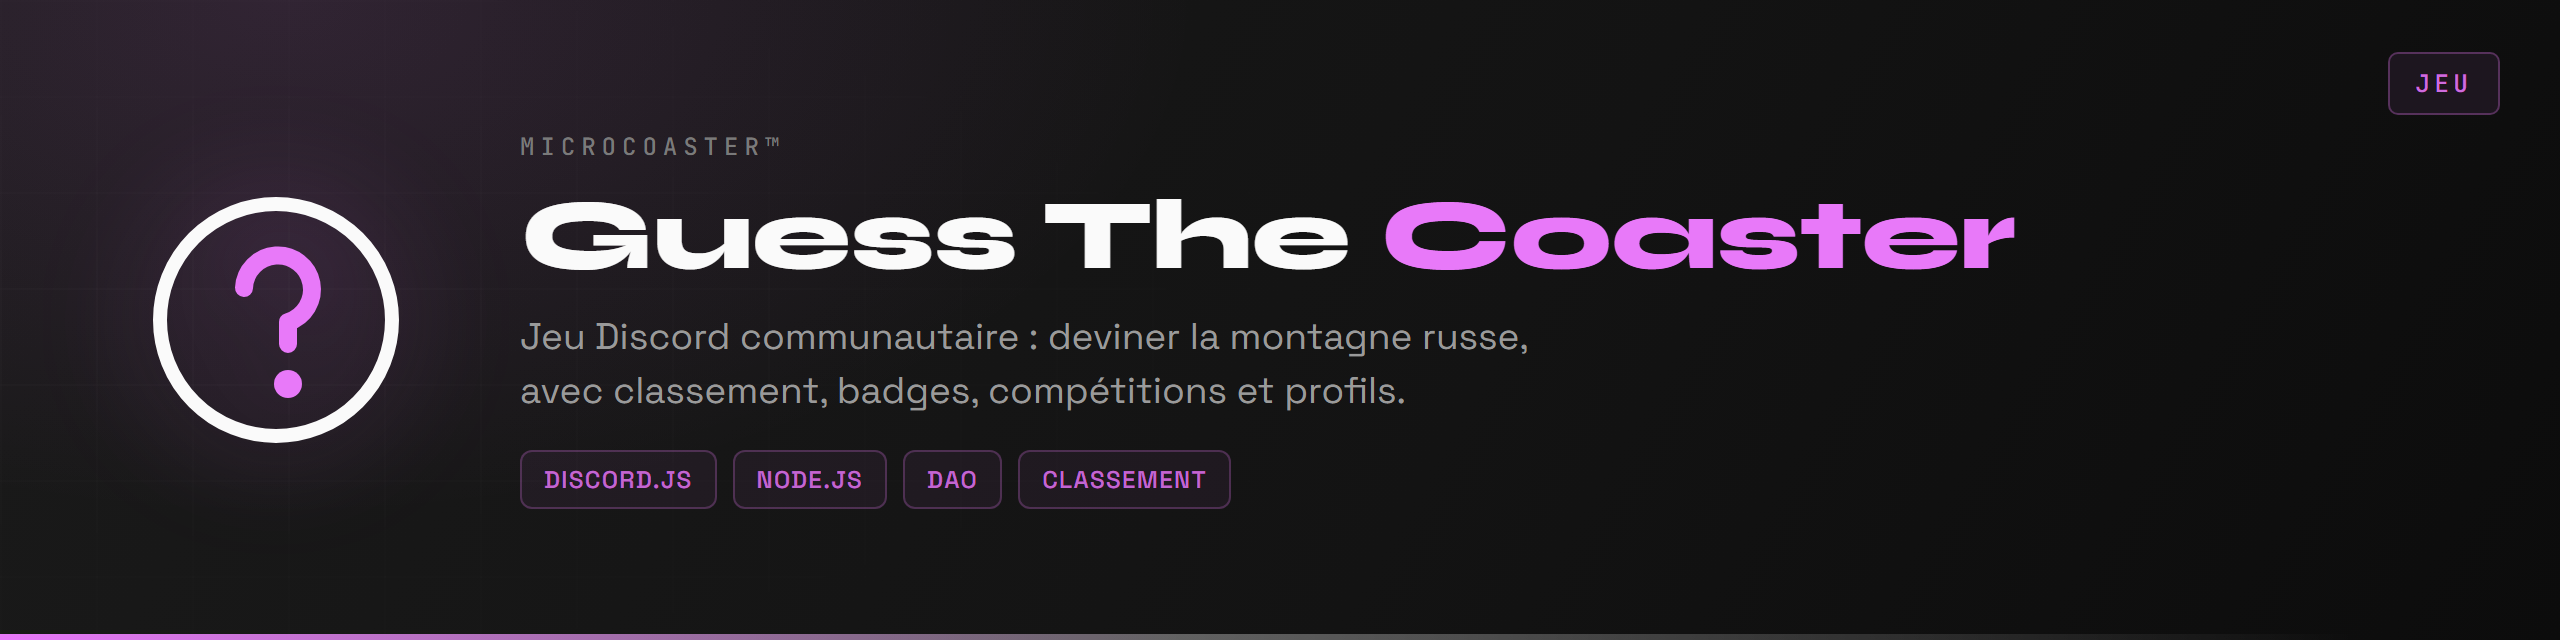
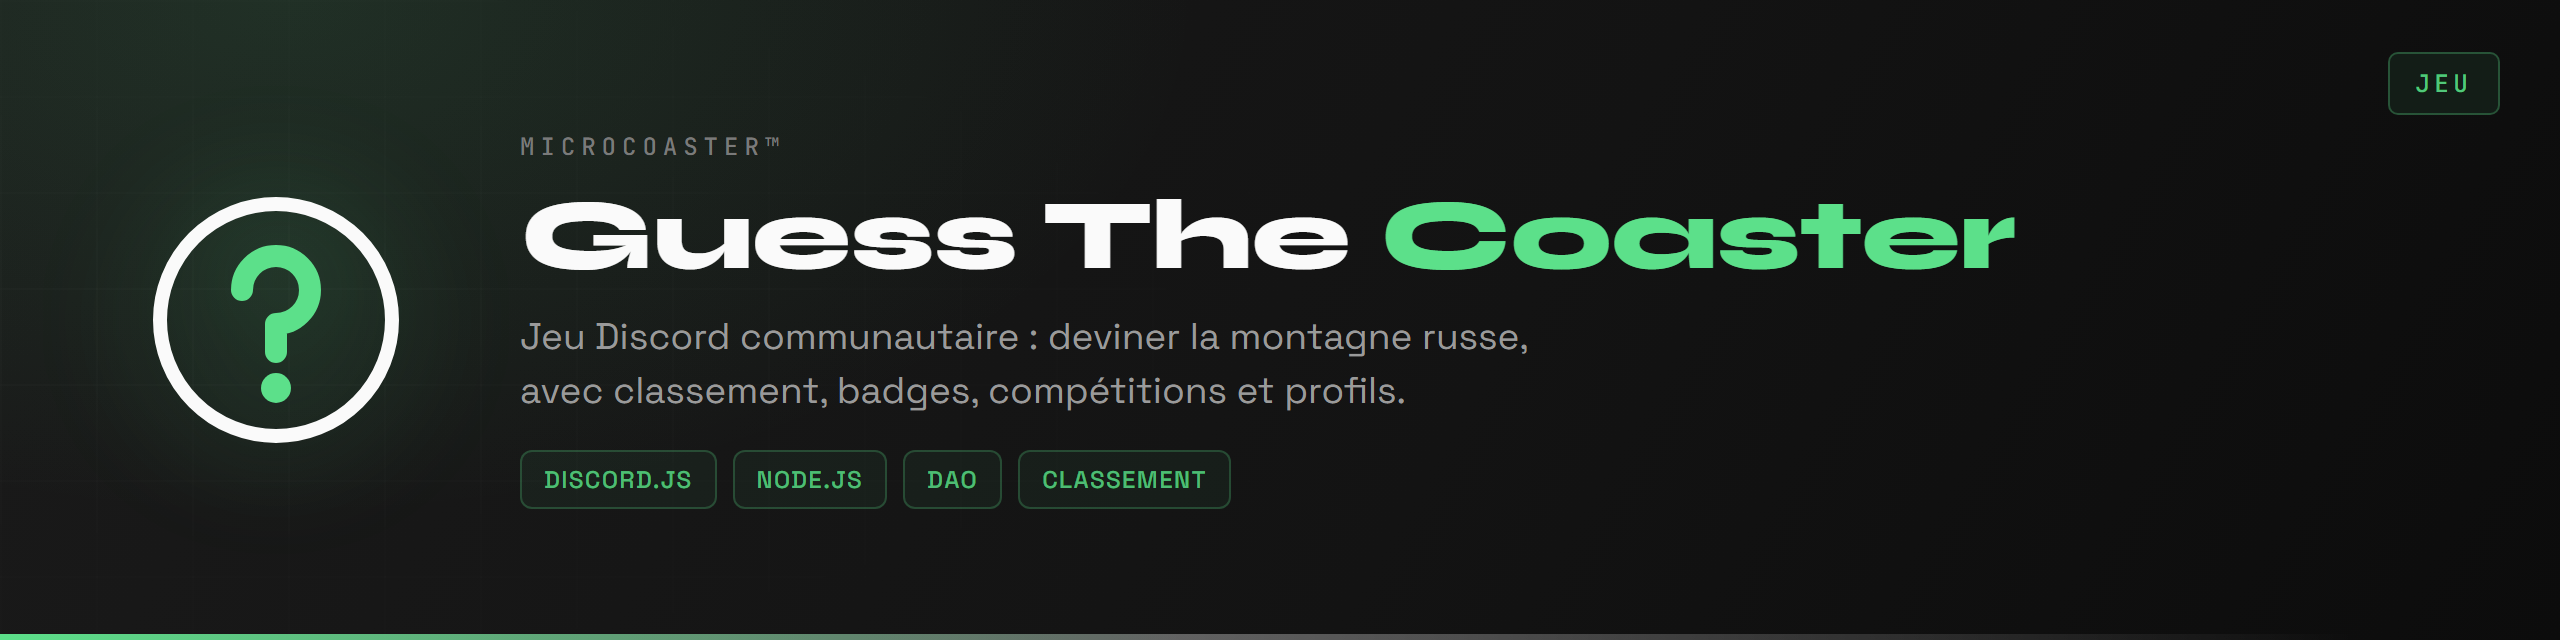
Réécrit le README sans emoji
Reprend la structure commune aux modules de l'organisation : principe,
sécurité, matériel, réglages, compilation, mise en service, état.

Le contenu technique est conservé, vérifié contre le code source plutôt
que recopié de la version précédente.

diff --git a/README.md b/README.md
@@ -4,121 +4,89 @@
 
 </div>
 
+Jeu Discord pour passionnés de parcs. Le bot poste la photo d'une montagne russe, les joueurs devinent son nom. Bonne réponse, des crédits et une série qui grandit. Mauvaise réponse, la série repart de zéro.
 
-**GuessTheCoaster** is a community-driven Discord bot where users guess the names of roller coasters based on images. Collect coasters, earn credits, build your streak, and climb the leaderboard. If you love theme parks and quizzes, you're in the right place!
+Les coasters devinés s'accumulent dans une collection personnelle, et le classement départage ceux qui les reconnaissent le plus vite.
 
-<p align="center">
-  <img src="https://media.discordapp.net/attachments/1367776168673280090/1367776189124710421/Toutatis-3-min-1024x682.png?ex=68f740d7&is=68f5ef57&hm=4a1f23fa7e1e25691168a088d8cc7dba5c145b3fea65815eba7f646d057799d9&=&format=webp&quality=lossless" width="600" alt="Banner"/>
-</p>
+## Comment ça se joue
 
-## 🚀 Features
+```
+Le bot poste une photo
+Les joueurs répondent avec /guess
+Bonne réponse    crédits gagnés, série prolongée, coaster ajouté à la collection
+Mauvaise         série remise à zéro
+```
 
-- 🖼 Image-based coaster guessing
-- 🧠 Streak and best streak tracking
-- 🪙 Credit system with difficulties: Easy / Medium / Hard
-- 🏆 User profiles with collectible stats and dynamic badges
-- 📈 Global and local leaderboards (`/leaderboard`)
-- 🎖 Contributor system (submit coasters!)
-- 🛠 Admin commands for managing contributors and coasters
+La collection est ce qui donne envie de revenir. Un coaster déjà trouvé reste acquis, et le profil montre ce qui manque.
 
-## 📸 How It Works
+## Commandes
 
-1. Use `/guess` to start a round.
-2. The bot sends you an image of a coaster.
-3. Type the correct name (or accepted alias) in chat.
-4. Get rewarded with credits & streaks if correct. Missed it? Your streak resets!
-5. View your profile with `/profile`.
+**Jouer**
 
-## 🛡 Roles & Badges
+| Commande | Rôle |
+|:--|:--|
+| `/guess` | Proposer une réponse |
+| `/profile` | Collection, crédits et série d'un joueur |
+| `/badges` | Badges obtenus |
+| `/leaderboard` | Classement général |
 
-- Contributor  
-- 50% of coasters collected  
-- All coasters collected  
-- 10-win streak  
-- 50-win streak  
-- The mythical creator
+**Compétitions**
 
-> 🛠 *More badges coming soon... once the dev stops riding coasters and working on microcoaster launch systems!*
+| Commande | Rôle |
+|:--|:--|
+| `/competition` | Lancer une partie chronométrée |
+| `/endgame` | Clore la partie en cours |
 
-## 🔧 Commands
+**Administration**
 
-| Command            | Description                                                    |
-|--------------------|----------------------------------------------------------------|
-| `/guess`           | Start a guessing round with a random coaster                   |
-| `/profile`         | View your profile or another user's stats                      |
-| `/leaderboard`     | Show leaderboard by credits, streaks, or completion            |
-| `/addcoaster`      | Add a new coaster to the database (contributors only)          |
-| `/addcontributor`  | Grant or remove contributor rights (owner only)                |
-| `/badges`          | Display all obtainable badges and their meaning                |
-| `/commands`        | List all available commands in the bot                         |
-| `/about`           | Learn more about the GuessTheCoaster bot                       |
-| `/ping`            | Check the bot’s latency and responsiveness                     |
-| `/competition`    | Lance une devinette ouverte, le premier à trouver gagne +5 crédits & un rôle spécial |
-| `/endgame`        | Termine la session de jeu en cours (si applicable)                                   |
-| `/competition`    | Launch an open challenge; first correct answer earns +5 credits & a special role |
-| `/endgame`        | End the current guessing session (if applicable)                                 |
+| Commande | Rôle |
+|:--|:--|
+| `/addcoaster` | Ajouter un coaster à la base |
+| `/addcontributor` | Créditer un contributeur |
 
-## 🧑💻 Dev Setup
+**Utilitaires**
 
-1. Clone the repository
+| Commande | Rôle |
+|:--|:--|
+| `/commands` | Liste des commandes |
+| `/about` | À propos du bot |
+| `/ping` | Vérifier que le bot répond |
 
-2. Create a `.env` file with:
+## Données
 
-DISCORD_TOKEN=your_token  
-CLIENT_ID=your_bot_id  
-DB_HOST=localhost  
-DB_USER=root  
-DB_PASS=your_password  
-DB_NAME=your_db
+Trois tables, une par question.
 
-3. Install dependencies:
+| Table | Question à laquelle elle répond |
+|:--|:--|
+| `users` | Qui joue, avec combien de crédits et quelle série |
+| `coasters` | Quels coasters existent, avec leur photo et leur parc |
+| `user_coasters` | Qui a trouvé quoi, et quand |
 
-`npm install`
+La troisième est ce qui fait la collection : une ligne par joueur et par coaster trouvé.
 
-4. Start the bot:
+## Installation
 
-`node index.js`
+```bash
+git clone https://github.com/Microcoaster/GuessTheCoaster.git
+cd GuessTheCoaster
+npm install
+cp .env.example .env
+```
 
-### 📄 `users`
+Renseigner `.env` avec le token du bot, récupéré sur le [portail développeur Discord](https://discord.com/developers/applications), et les accès à la base.
 
-| Column               | Type        | Description                                                   |
-| -------------------- | ----------- | ------------------------------------------------------------- |
-| `id`                 | INT         | Unique user ID (auto-incremented)                             |
-| `username`           | VARCHAR(50) | Unique username                                               |
-| `credits`            | INT         | Total credits earned                                          |
-| `streak`             | INT         | Current correct answer streak                                 |
-| `best_streak`        | INT         | Highest streak achieved                                       |
-| `last_played`        | DATETIME    | Last time the user played                                     |
-| `guild_id`           | VARCHAR(64) | Discord server (guild) ID                                     |
-| `contributor`        | BOOLEAN     | Whether the user is a contributor (1 = yes, 0 = no)           |
-| `competition_winner` | BOOLEAN     | Whether the user has won at least one `/competition` round    |
-| `has_completed`      | BOOLEAN     | Whether the user has guessed all available coasters correctly |
+```bash
+npm start
+```
 
+Les commandes slash s'enregistrent au démarrage. Comptez jusqu'à une heure avant qu'elles apparaissent partout si elles sont publiées globalement.
+
+## Contribuer
+
+Le jeu vit de sa base de coasters. Ajouter des entrées avec de bonnes photos est la contribution la plus utile, et `/addcontributor` sert à créditer ceux qui le font.
+
+Pour le code, le cycle est celui de l'organisation : une issue décrit le travail, une branche part de `develop`, une pull request revient dessus et passe en review.
 
 ---
 
-### 🎢 `coasters`
-
-| Column       | Type    | Description                                   |
-| ------------ | ------- | --------------------------------------------- |
-| `id`         | INT     | Unique coaster ID (auto-incremented)          |
-| `name`       | VARCHAR | Primary name of the coaster                   |
-| `alias`      | VARCHAR | Alternate name (can be `NULL`)                |
-| `difficulty` | ENUM    | Difficulty level: `easy`, `medium`, or `hard` |
-| `image_url`  | TEXT    | URL to the coaster image                      |
-
----
-
-### ✨ `user_coasters`
-
-| Column       | Type    | Description                                 |
-| ------------ | ------- | ------------------------------------------- |
-| `username`   | VARCHAR | Username of the player                      |
-| `coaster_id` | INT     | ID of the coaster they successfully guessed |
-
-## 🤝 Contribute
-
-Want to help by submitting coaster pictures or ideas?  
-Reach out via **Discord** and earn the 🎖 **Contributor** badge!
-
-
+<sub>MicroCoaster · microcoaster.com</sub>
